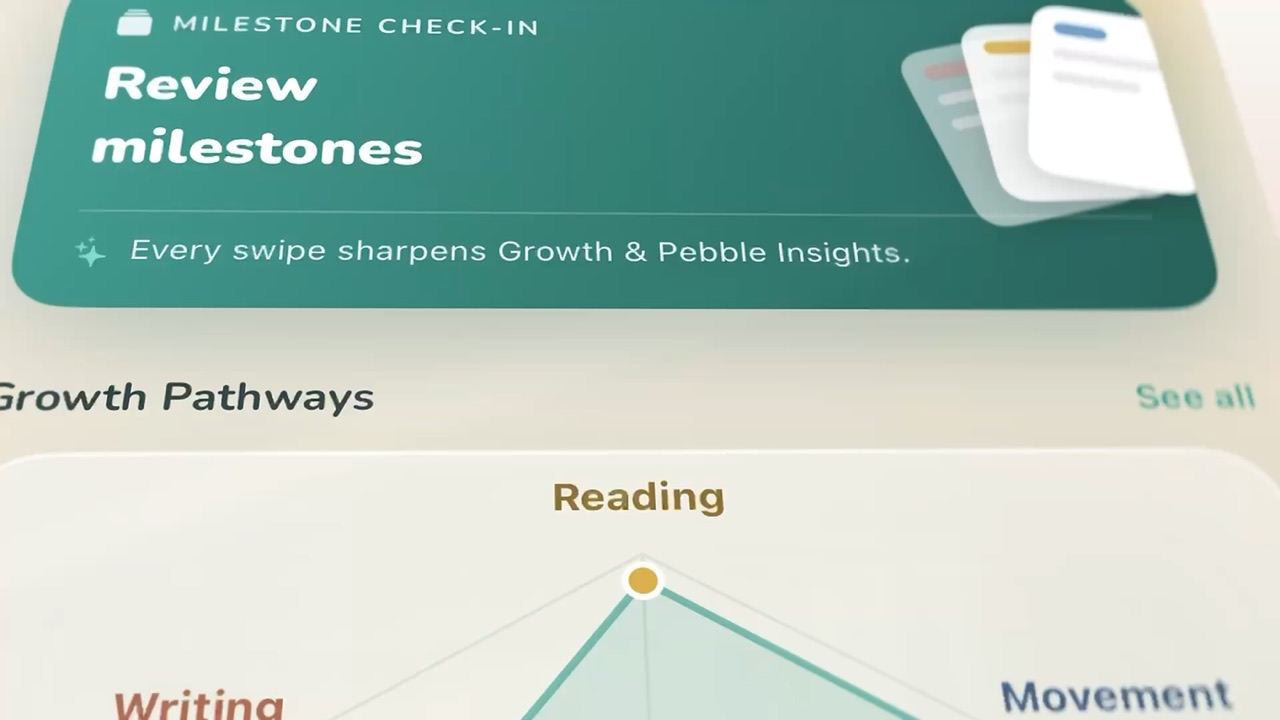
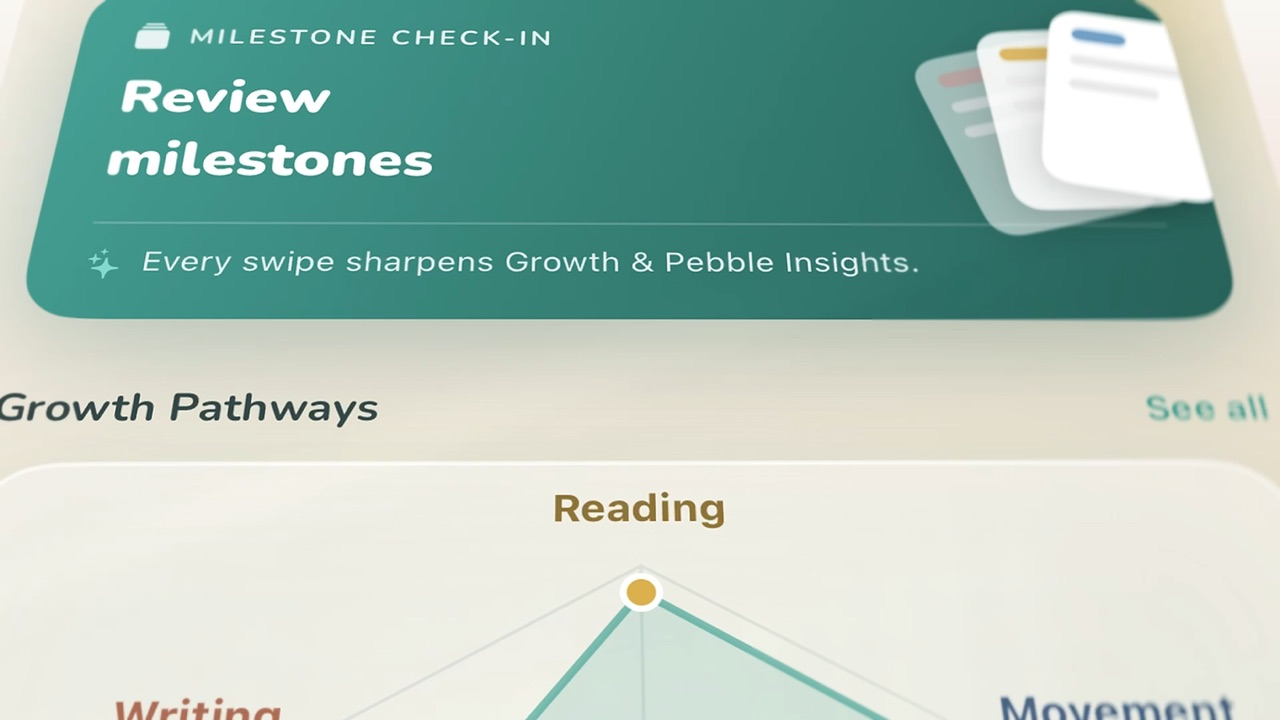
Website: revert hero video to Thomas's original export
Reverts the 1.82 Mbps transcode. Thomas judged it visibly worse and he is
right: my quality check was inadequate. I compared frame one, which is a
keyframe and therefore the highest-quality frame in the file. Compression
artifacts surface in MOTION, and this video pans continuously, so a single
keyframe was the best possible case and proved nothing about the other 922
frames.

Ships his export byte-identical, verified with cmp. 18.4MB, and faststart was
already set by Ultramock so playback still starts before the full download.

Poster regenerated from his file rather than from the transcode. Cache key
bumped to ?v=3 since the bytes changed again.

Page weight is back up, so the hero is once more the heaviest thing on it. A
correct fix needs quality checked against motion, not a keyframe.

diff --git a/index.html b/index.html
@@ -3115,8 +3115,8 @@
   </defs>
 </svg>
 <section class="hero-v2">
-  <video class="hero-v2-video" autoplay muted loop playsinline preload="metadata" poster="assets/ultramock-poster.jpg?v=2">
-    <source src="assets/ultramock.mp4?v=2" type="video/mp4">
+  <video class="hero-v2-video" autoplay muted loop playsinline preload="metadata" poster="assets/ultramock-poster.jpg?v=3">
+    <source src="assets/ultramock.mp4?v=3" type="video/mp4">
   </video>
   <div class="hero-v2-panel"></div>
   <div class="hero-v2-glow"></div>